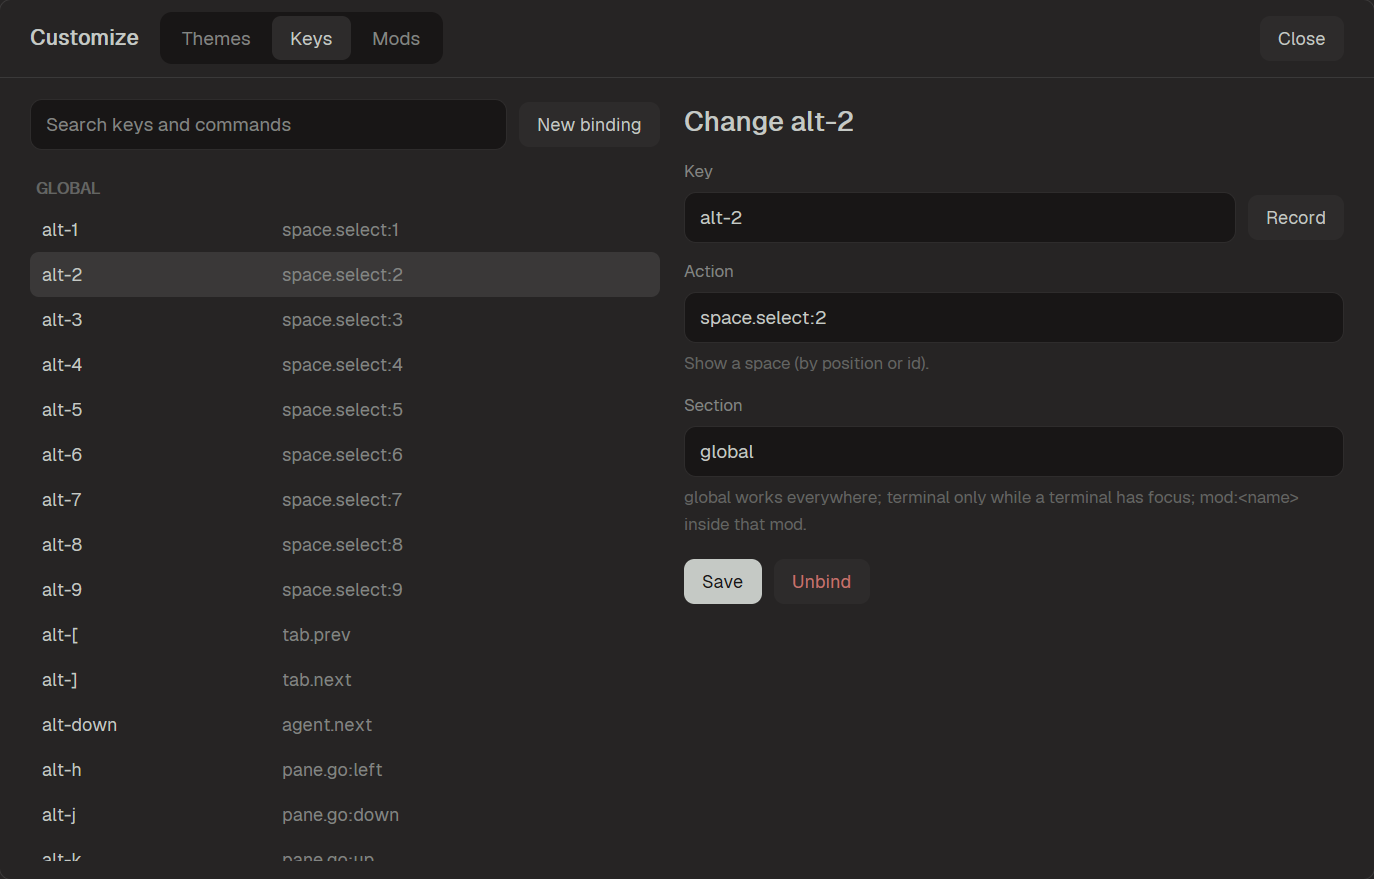
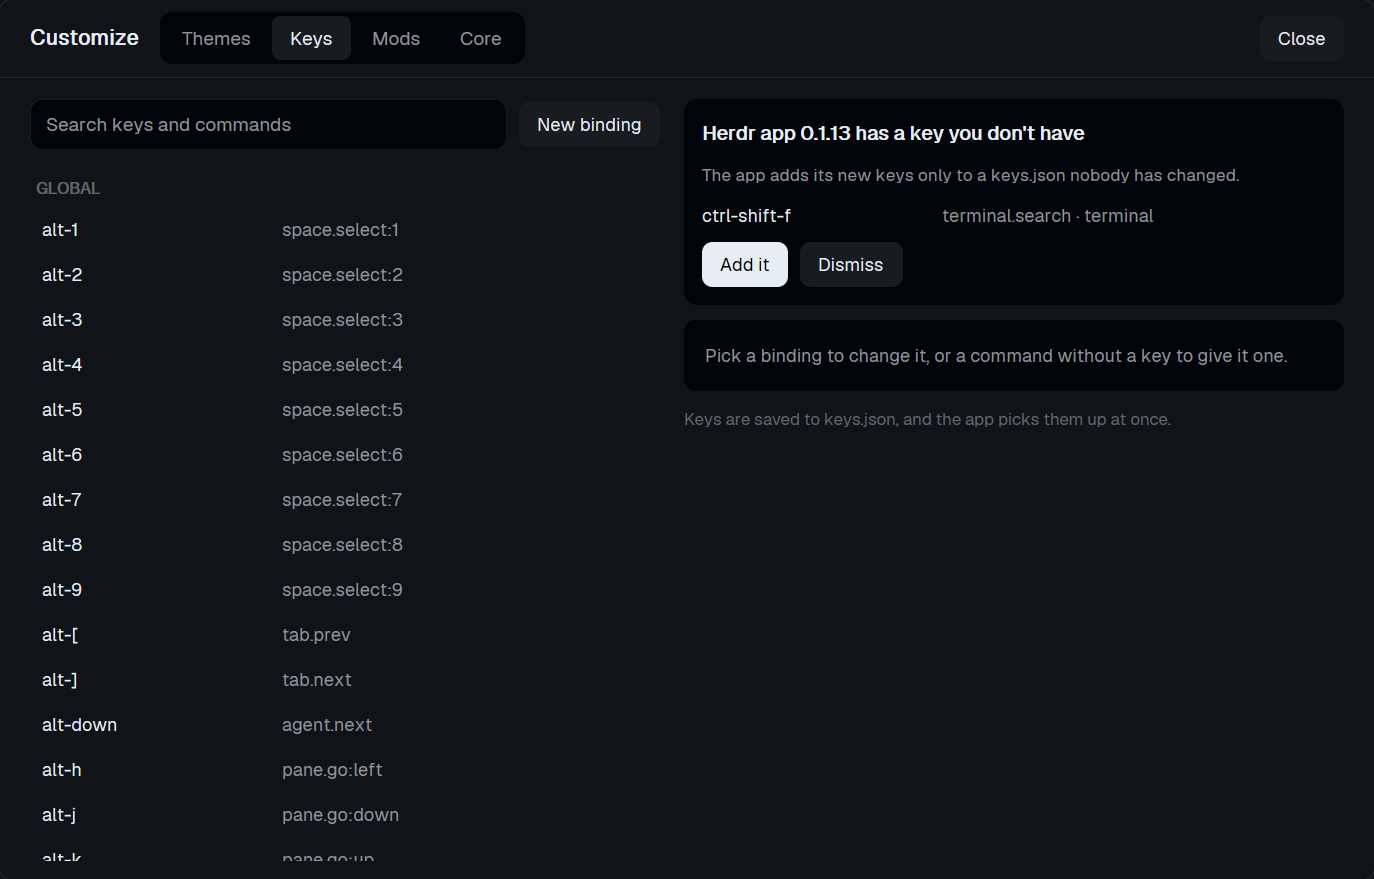
docs(app): show all four pages in the card and the guide
The Browse card's blurb and picture still described three pages. They now
name the Core page and the keys app updates leave out, and the picture
and screenshots show all four tabs.

diff --git a/app/README.md b/app/README.md
@@ -1,13 +1,13 @@
 # Customize for the Herdr app
 
-Customize Herdr from one screen on **ctrl+shift+y** (**cmd+shift+y** on
-macOS): pick a theme with a live preview, change your keybindings, and find,
-review and install mods and layouts from GitHub, and set the shell and
-scrollback of the terminals. No config files to edit.
+Customize Herdr from one screen: pick a theme with a live preview, change
+your keybindings and get the new ones app updates leave out, find, review and
+install mods and layouts from GitHub, and set herdr-core's shell, scrollback
+and timeouts. No config files to edit.
 
-| Themes | Keys | Mods |
-| --- | --- | --- |
-| ![Themes: the palettes with a terminal drawn in the selected one's colors](../docs/screenshots/app-themes.png) | ![Keys: a binding open in the form, with its command's description](../docs/screenshots/app-keys.png) | ![Mods: packages from herdr-mod repositories, each with its picture, name, stars and Review](../docs/screenshots/app-mods.png) |
+| Themes | Keys | Mods | Core |
+| --- | --- | --- | --- |
+| ![Themes: the palettes with a terminal drawn in the selected one's colors](../docs/screenshots/app-themes.png) | ![Keys: the bindings, and a card offering the key the app's version ships that keys.json lacks](../docs/screenshots/app-keys.png) | ![Mods: packages from herdr-mod repositories, each with its picture, name, stars and Review](../docs/screenshots/app-mods.png) | ![Core: herdr-core's settings, with the shell open and its hints](../docs/screenshots/app-core.png) |
 
 ## Add it
 

diff --git a/docs/app.md b/docs/app.md
@@ -9,7 +9,7 @@ never touches Herdr's `config.toml` from there.
 
 | Themes | Keys | Mods |
 | --- | --- | --- |
-| ![Themes: the palettes with a terminal drawn in the selected one's colors](screenshots/app-themes.png) | ![Keys: a binding open in the form, with its command's description](screenshots/app-keys.png) | ![Mods: packages from herdr-mod repositories, each with its picture, name, stars and Review](screenshots/app-mods.png) |
+| ![Themes: the palettes with a terminal drawn in the selected one's colors](screenshots/app-themes.png) | ![Keys: the bindings, and a card offering the key the app's version ships that keys.json lacks](screenshots/app-keys.png) | ![Mods: packages from herdr-mod repositories, each with its picture, name, stars and Review](screenshots/app-mods.png) |
 
 ## Set it up
 

diff --git a/app/RECIPE.md b/app/RECIPE.md
@@ -1,11 +1,11 @@
 # Customize
 
-Customize Herdr from one screen on **ctrl+shift+y** (**cmd+shift+y** on
-macOS): pick a theme with a live preview, change your keybindings, and find,
-review and install mods and layouts from GitHub, and set the shell and
-scrollback of the terminals. No config files to edit.
+Customize Herdr from one screen: pick a theme with a live preview, change
+your keybindings and get the new ones app updates leave out, find, review and
+install mods and layouts from GitHub, and set herdr-core's shell, scrollback
+and timeouts. No config files to edit.
 
-![Customize: the Themes, Keys and Mods pages](preview.png)
+![Customize: the Themes, Keys, Mods and Core pages](preview.png)
 
 ## Before you add it
 
